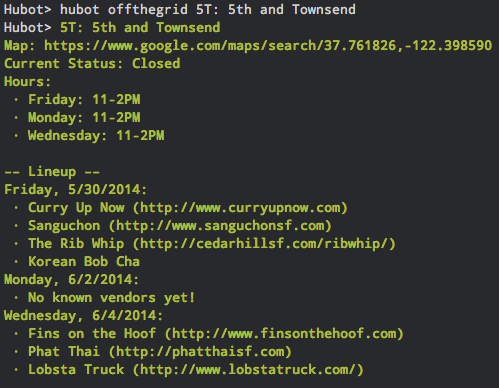
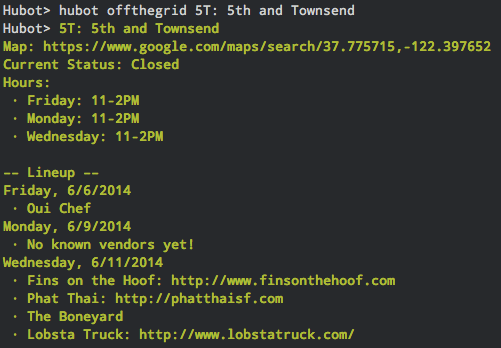
Updating documentation and example screenshots.

Changed region(s): [[0.0, 0.0, 0.992, 0.977]]

diff --git a/README.md b/README.md
@@ -20,7 +20,9 @@ Then supply that location name to `hubot offthegrid id`.
 
 ![hubot offthegrid id](https://raw.githubusercontent.com/jonursenbach/hubot-offthegrid/master/img/location-id.png)
 
-Once you have that internal ID, set it to the `HUBOT_OFF_THE_GRID_LOCATION_ID` environment variable.
+Once you have that internal ID, set it to the `HUBOT_OFF_THE_GRID_LOCATION_ID` environment variable, and the you can use `hubot offthegrid` without passing in a location.
+
+![hubot offthegrid shorthand](https://raw.githubusercontent.com/jonursenbach/hubot-offthegrid/master/img/usage-shorthand.png)
 
 ##### Heroku
 
